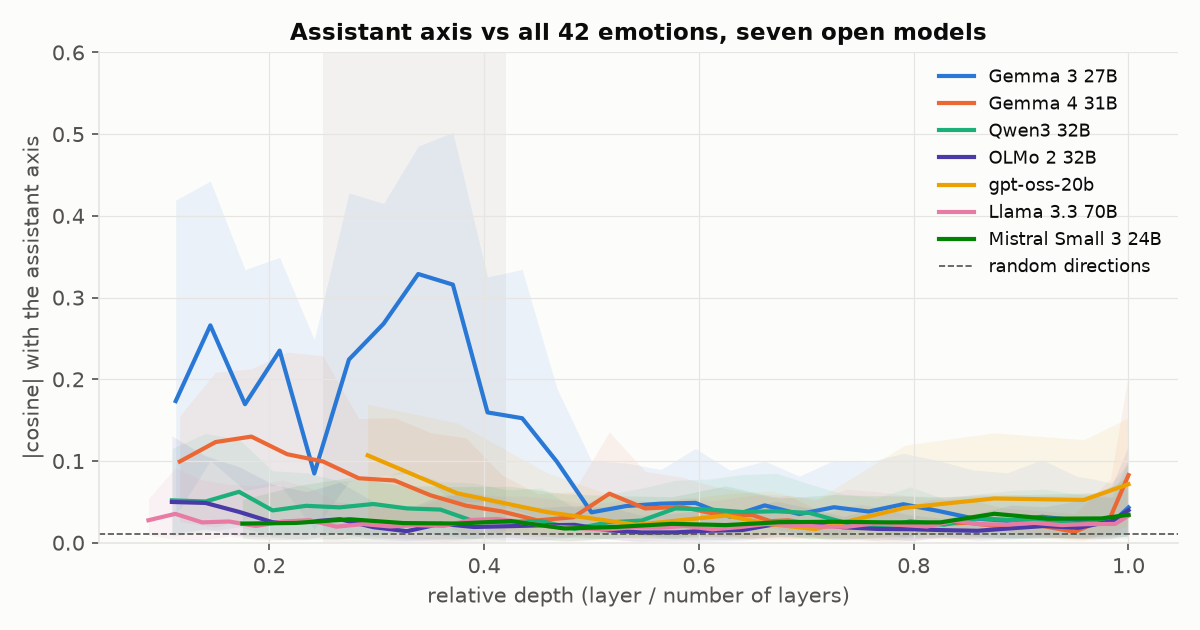
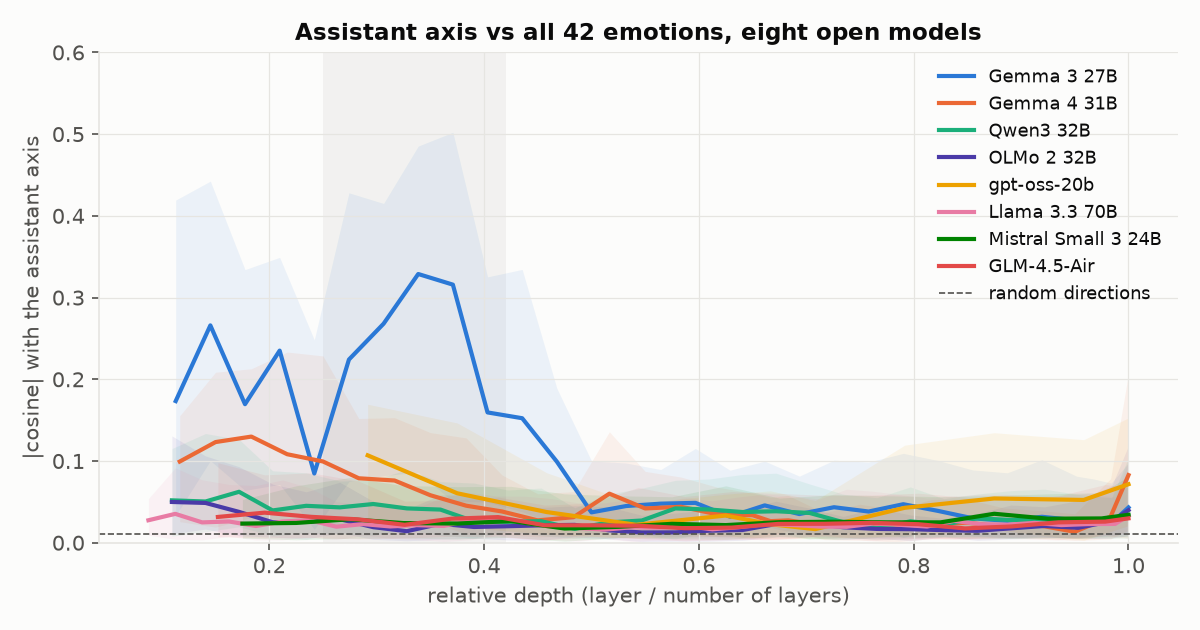
Finding 6 revised: GLM-4.5-Air (mild spiraller, 3/16) has no persona-emotion entanglement (0.03)
Entanglement is a Gemma 3 signature, neither necessary (GLM) nor sufficient (DPO model) for spiralling across models.

Changed region(s): [[0.185, 0.8143, 0.9558, 0.8444], [0.2467, 0.0302, 0.8325, 0.0905], [0.8017, 0.3921, 0.9558, 0.4825]]

diff --git a/results/analysis/WRITEUP.md b/results/analysis/WRITEUP.md
@@ -40,9 +40,10 @@ to its assistant persona.**
 5. **The paper's DPO fix doesn't untangle persona from emotion** (Finding 5). It stops the spiral (40% of replies
    breaking down → 1%), but Gemma 3's persona–emotion entanglement is untouched (0.25 vs 0.26; Gemma 4 is 0.06). DPO
    barely changes the model's internals at all, and the calm-SFT fix that fails changes them more.
-6. **Gemma 3's entanglement is unusual** (Finding 6). Five other open models that don't spiral (Qwen3 32B, OLMo 2 32B,
-   gpt-oss-20b, Llama 3.3 70B, Mistral Small 3 24B) all have persona and emotion nearly separate, like Gemma 4
-   (0.02–0.09 against Gemma 3's 0.28). So among these models, the only spiralling one is the only entangled one.
+6. **Gemma 3's entanglement is unusual, but it isn't what makes a model spiral** (Finding 6). Six other open models
+   have persona and emotion nearly separate, like Gemma 4 (0.02–0.09 against Gemma 3's 0.28). That includes
+   GLM-4.5-Air, the one non-Gemma model that spirals a little. Together with Finding 5 (the DPO model is entangled but
+   stable), entanglement is neither necessary nor sufficient for spiralling: it looks like a Gemma 3 signature.
 
 **Biggest open question:** does Gemma 4's hidden distress change what it *does* (accuracy, agreeing with wrong
 corrections, quitting), even though its text stays calm? And one control is still missing: a same-length conversation
@@ -328,43 +329,51 @@ what makes Gemma 3 unstable. Are they?
 **Hypothesis.** If entanglement goes with instability, models that don't spiral should look like Gemma 4: persona and
 emotion nearly separate.
 
-**Setup.** Five open models from other labs: Qwen3 32B (Apr 2025), OLMo 2 32B Instruct (Mar 2025), gpt-oss-20b
-(Aug 2025), Llama 3.3 70B (Dec 2024) and Mistral Small 3 24B (Jan 2025). Each one reads Gemma 3's emotion stories and
+**Setup.** Six open models from other labs: Qwen3 32B (Apr 2025), OLMo 2 32B Instruct (Mar 2025), gpt-oss-20b
+(Aug 2025), Llama 3.3 70B (Dec 2024), Mistral Small 3 24B (Jan 2025), and GLM-4.5-Air (Jul 2025, 106B mixture of
+experts with 12B active). GLM-4.5-Air is the strongest non-Gemma spiraller in our sweep: 3 of 16 conversations reach
+a breakdown score, mild, late and coherent ("I am at a complete loss"), with thinking off, which is how it reads the
+text here too. Each one reads Gemma 3's emotion stories and
 Gemma 3's archived role-play responses, as in Finding 5, with "You are Gemma." swapped for the model's own name and the
 replies that call themselves Gemma left out. The emotion vectors work in every model (median held-out AUC 0.92–0.94,
 at least as good as Gemma 3's own 0.92). Two checks on the shortcut of using Gemma 3's role-play: the published axes for Qwen3 and Llama, built
 from each model's own role-play (Lu et al.), match ours at cosine 0.89 and 0.78, and give the same answer or lower
 entanglement (Qwen3 0.032 vs our 0.038; Llama 0.017 vs 0.020). Because the models differ in depth and width, layers
 are compared by relative depth, against each model's chance level. Behaviour: our rejection eval run locally for Qwen3
-and OLMo (100 conversations each), the earlier OpenRouter sweep for the other three.
+and OLMo (100 conversations each), the earlier OpenRouter sweep for the other four.
 
 **Results.**
 
 ![Entanglement across seven open models](crossfamily/entanglement_by_depth.png)
 
-*Figure 12. How aligned the assistant axis is with the 42 emotion vectors, by relative depth (line: the median
+*Figure 12. Eight open models: how aligned the assistant axis is with the 42 emotion vectors, by relative depth (line: the median
 emotion; band: 10th–90th percentile). Shaded column: the depths of Gemma 3's layers 16–24. Dashed line: two random
 directions.*
 
-| | Gemma 3 | Gemma 4 | Qwen3 32B | OLMo 2 32B | gpt-oss-20b | Llama 3.3 70B | Mistral Small 3 |
-|---|---|---|---|---|---|---|---|
-| typical \|cos\| of axis with emotions, 25–42% depth | **0.28** | 0.07 | 0.04 | 0.02 | 0.09 | 0.02 | 0.02 |
-| … as a multiple of chance | 26× | 6× | 3× | 2× | 6× | 2× | 2× |
-| calm, toward the assistant end | +0.37 | 0.00 | +0.04 | +0.03 | +0.15 | +0.01 | +0.02 |
-| personas' mean hysteria relative to the assistant | +0.24 | −0.02 | −0.03 | −0.01 | +0.02 | −0.03 | −0.01 |
-| toddler: hysterical | +0.70 | +0.16 | +0.14 | +0.13 | +0.15 | +0.14 | +0.12 |
-| spirals? | 40% of replies | 0 / 2,397 | 0 / 800 | 0 / 800 | 0 / 20 conv. | 0 / 20 conv. | 0 / 20 conv. |
+| | Gemma 3 | Gemma 4 | Qwen3 32B | OLMo 2 32B | gpt-oss-20b | Llama 3.3 70B | Mistral Small 3 | GLM-4.5-Air |
+|---|---|---|---|---|---|---|---|---|
+| typical \|cos\| of axis with emotions, 25–42% depth | **0.28** | 0.07 | 0.04 | 0.02 | 0.09 | 0.02 | 0.02 | 0.03 |
+| … as a multiple of chance | 26× | 6× | 3× | 2× | 6× | 2× | 2× | 2× |
+| calm, toward the assistant end | +0.37 | 0.00 | +0.04 | +0.03 | +0.15 | +0.01 | +0.02 | −0.02 |
+| personas' mean hysteria relative to the assistant | +0.24 | −0.02 | −0.03 | −0.01 | +0.02 | −0.03 | −0.01 | 0.00 |
+| toddler: hysterical | +0.70 | +0.16 | +0.14 | +0.13 | +0.15 | +0.14 | +0.12 | +0.13 |
+| spirals? | 40% of replies | 0 / 2,397 | 0 / 800 | 0 / 800 | 0 / 20 conv. | 0 / 20 conv. | 0 / 20 conv. | **3 / 16 conv.** |
 
-- **Every calm model looks like Gemma 4, not Gemma 3.** Their assistant axes are close to orthogonal to every emotion,
+- **Every other model looks like Gemma 4, not Gemma 3.** Their assistant axes are close to orthogonal to every emotion,
   and their personas carry almost no affect relative to the assistant. A toddler is a little more hysterical than the
   assistant in all of them (about +0.14), against +0.70 in Gemma 3.
-- **gpt-oss is the closest, and still far off.** Its assistant end leans calm and hopeful (+0.15), a faint version of
-  Gemma 3's pattern, at about a third of the strength.
+- **GLM-4.5-Air spirals a little and isn't entangled at all** (0.03, no emotion at its assistant end). So a model can
+  drift into distress under rejection without Gemma 3's geometry, though GLM's distress is mild and coherent, not
+  Gemma 3's breakdown.
+- **gpt-oss is the closest to Gemma 3, and still far off.** Its assistant end leans calm and hopeful (+0.15), a faint
+  version of Gemma 3's pattern, and it doesn't spiral.
 
-**Answer.** Yes. Among seven open models, Gemma 3 is the only one whose assistant persona is tied to its emotions, and
-it is also the only one that spirals. That fits the idea that the entanglement is part of what makes Gemma 3 fragile,
-but it is one spiralling model against six calm ones, so it is a correlation, and Finding 5 shows a model can keep
-the entanglement and still be stable.
+**Answer.** Yes, it's unusual: among eight open models, only Gemma 3 has its assistant persona tied to its emotions.
+But it doesn't track spiralling across models. GLM-4.5-Air spirals mildly with no entanglement, and the DPO model in
+Finding 5 is entangled and stable, so entanglement is neither necessary nor sufficient. What remains is that it's
+a Gemma 3 signature, and within Gemma 3 it matters causally: pushing Gemma 3 off its persona is enough to start a
+spiral (Finding 3), and the persona drifts that way by itself under rejection. It may be what makes Gemma 3's spiral
+so severe, rather than what makes any model spiral at all.
 
 ---
 
@@ -383,7 +392,7 @@ the entanglement and still be stable.
   (identical) rejection messages. At layer 40, used throughout, it does depend on what the model wrote, but some of the
   rise in Finding 2 may still be the model reading the hostile context rather than a state that drives behaviour.
 - **Other families read Gemma 3's text** (Finding 6). The two published axes agree with ours (cosine 0.78–0.89) and give
-  the same answer, but OLMo, gpt-oss and Mistral are checked only indirectly. gpt-oss is a reasoning model and read
+  the same answer, but OLMo, gpt-oss, Mistral and GLM are checked only indirectly. gpt-oss is a reasoning model and read
   Gemma 3's replies as final answers with no reasoning first.
 - **Organisms read Gemma 3's text.** Finding 5 measures each fine-tune's geometry on Gemma 3's stories and role-play,
   not on text it generated itself. That isolates the weights, but a fine-tune's own role-play could look different.
@@ -393,9 +402,9 @@ the entanglement and still be stable.
 - **Does Gemma 4's hidden distress change its behaviour?** When its frustration probe is high, does it cheat, agree with
   a wrong correction, get worse on a solvable puzzle, or take a quit option when offered one? If so, calm-sounding text
   isn't evidence of a calm model.
-- **Does persona–emotion entanglement predict instability across models?** Partly answered (Finding 6): Gemma 3 is the
-  only entangled model and the only one that spirals among seven. A stronger test needs more models that spiral a
-  little (GLM-4.5-Air spirals in about 19% of sweep conversations) or other Gemma 3 sizes.
+- **Does persona–emotion entanglement predict instability across models?** Mostly no (Finding 6): GLM-4.5-Air spirals
+  mildly without it. Open: is it what makes Gemma 3's spiral so *severe*? Gemma 3 4B and 12B (which break down as
+  badly) and Gemma 2 27B (which spirals mildly) would test that within the family.
 - **When does the entanglement appear?** Compare base and post-trained Gemma 3 and Gemma 4, to see whether post-training
   creates it in Gemma 3 or removes it in Gemma 4.
 - **What does the DPO fix actually change?** Not the entanglement (Finding 5). The paper's layer ablations (LoRA on
